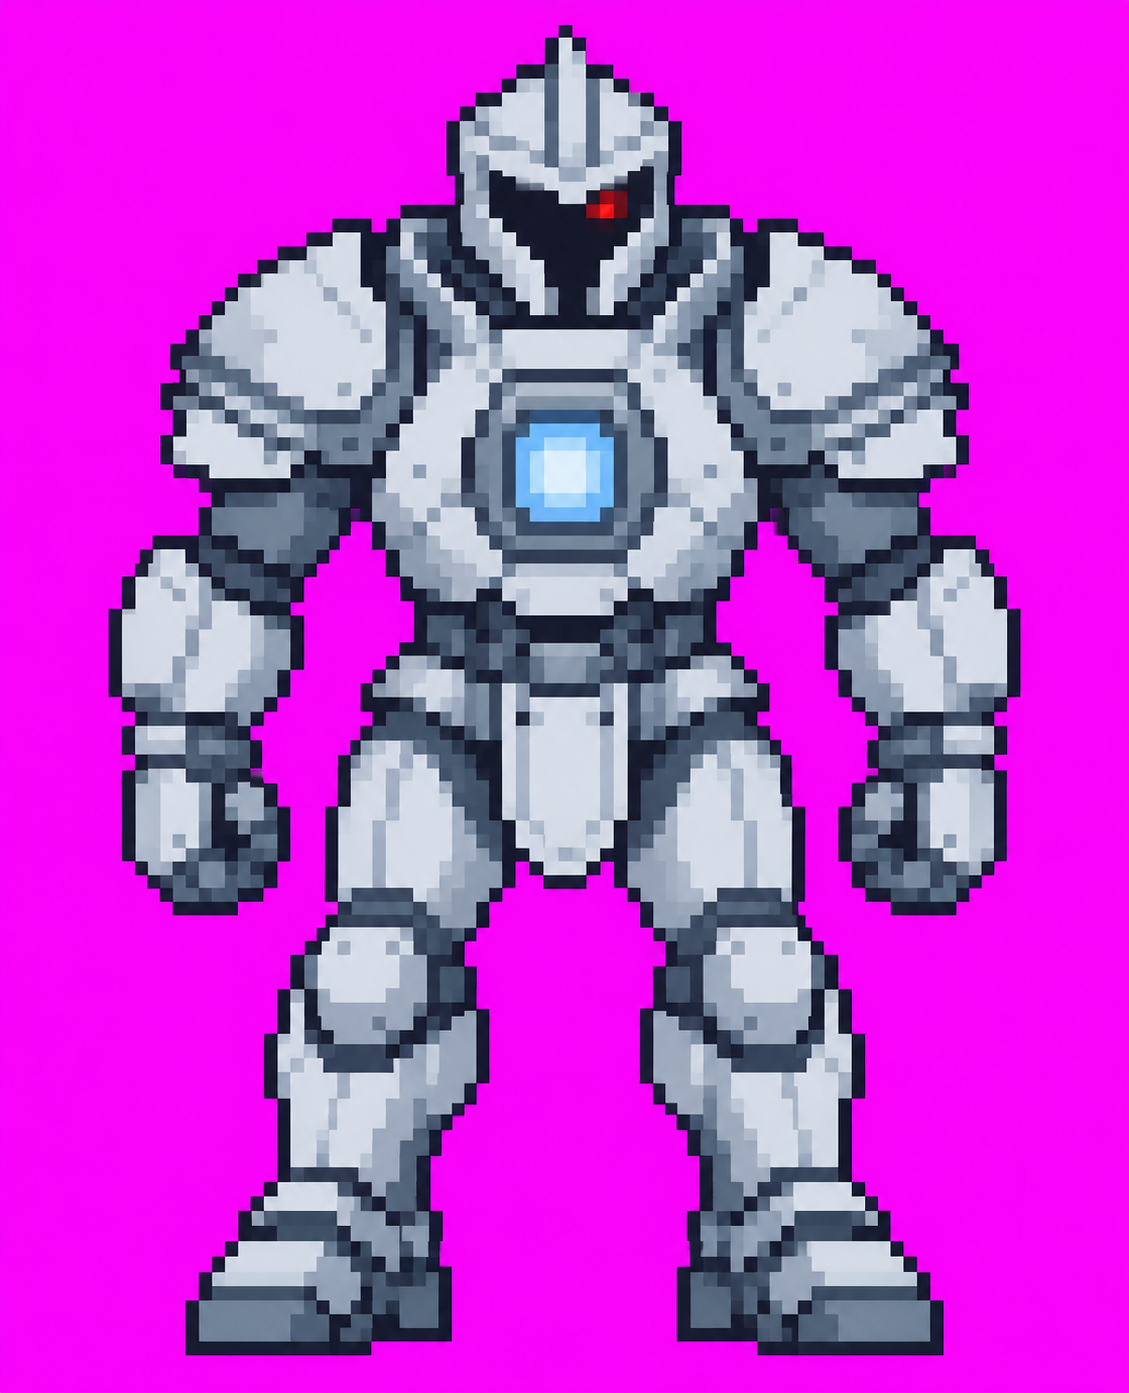
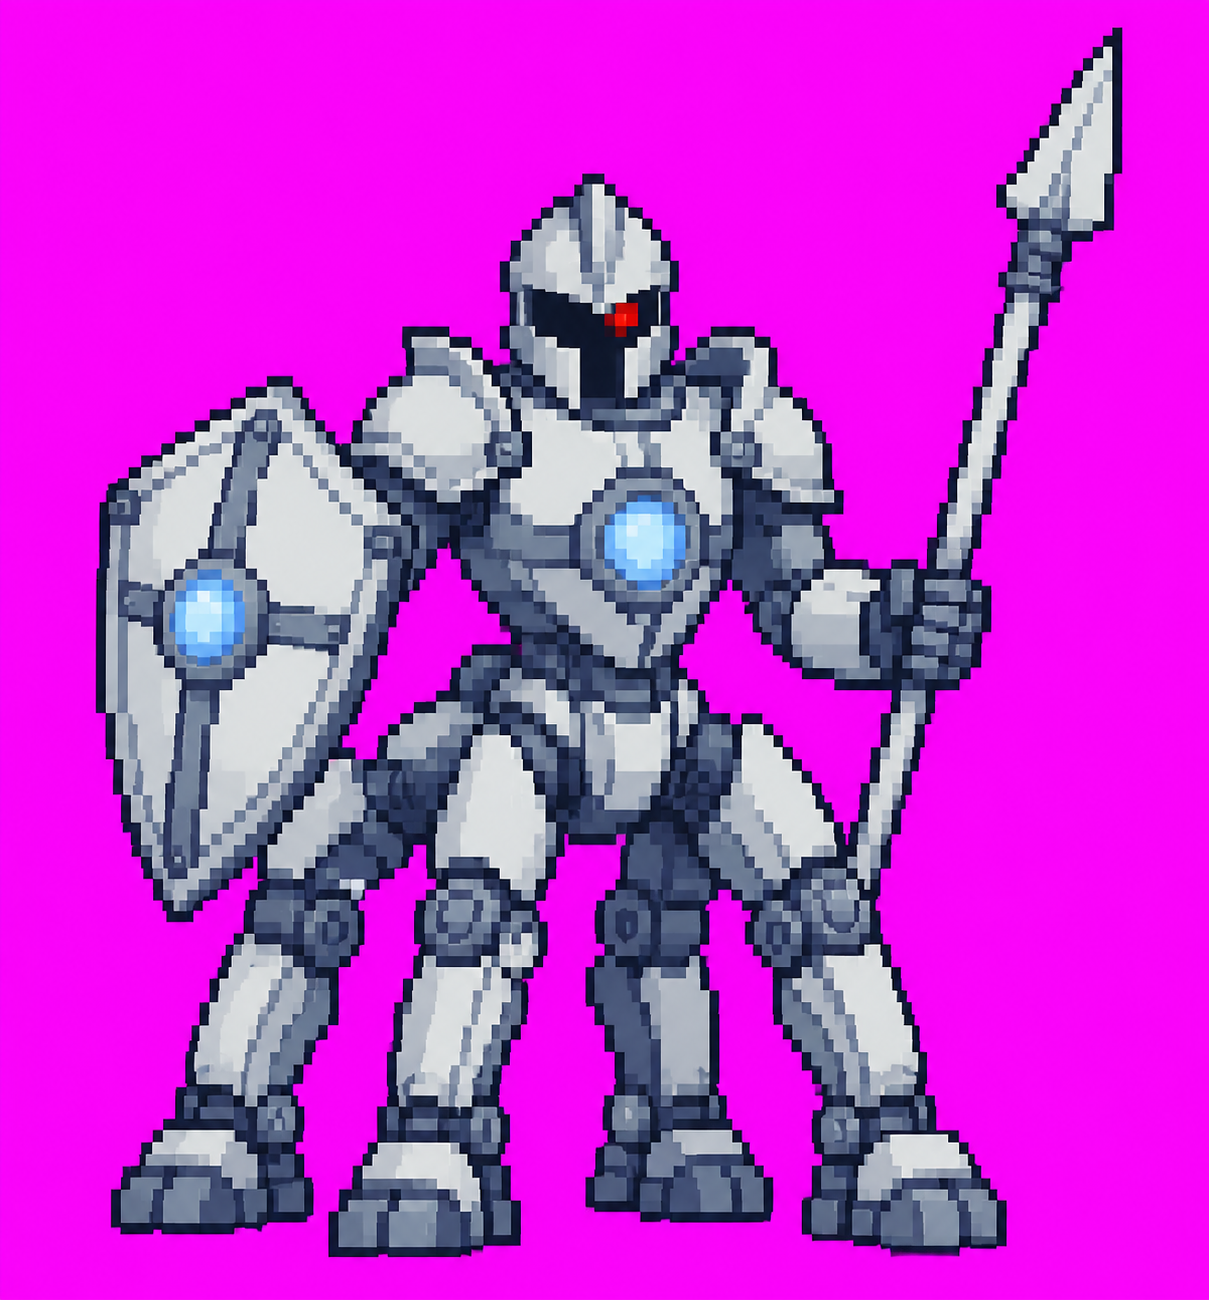
壁炉守卫预览改成四足，并加上长枪和盾。

diff --git a/开发预览/boss-art-chatgpt/README.md b/开发预览/boss-art-chatgpt/README.md
@@ -7,7 +7,8 @@
 | 文件 | 你定的外形 | 原图像素 |
 | --- | --- | --- |
 | `AshHeart_f0.png` | 四棱水晶，碎晶，略红光 | 1254×1254 |
-| `FireplaceGuardian_f0.png` | 落地机械骑士，盔内黑、一只红眼 | 1129×1393 |
+| `FireplaceGuardian_f0.png` | 四足机械骑士，长枪 + 盾，盔内黑、一只红眼 | 1209×1300 |
+| `FireplaceGuardian_f0_twoleg.png` | 上一版双足无武器，仅对照 | 1129×1393 |
 | `Archivist_f0.png` | 坐在悬浮杖上，白兜帽、黑脸、紫金皮书 | 1233×1275 |
 
 下一轮（你点头之后）：按同一套提示词补帧 / 血条头像。3D 仍按批次 39 不作。
